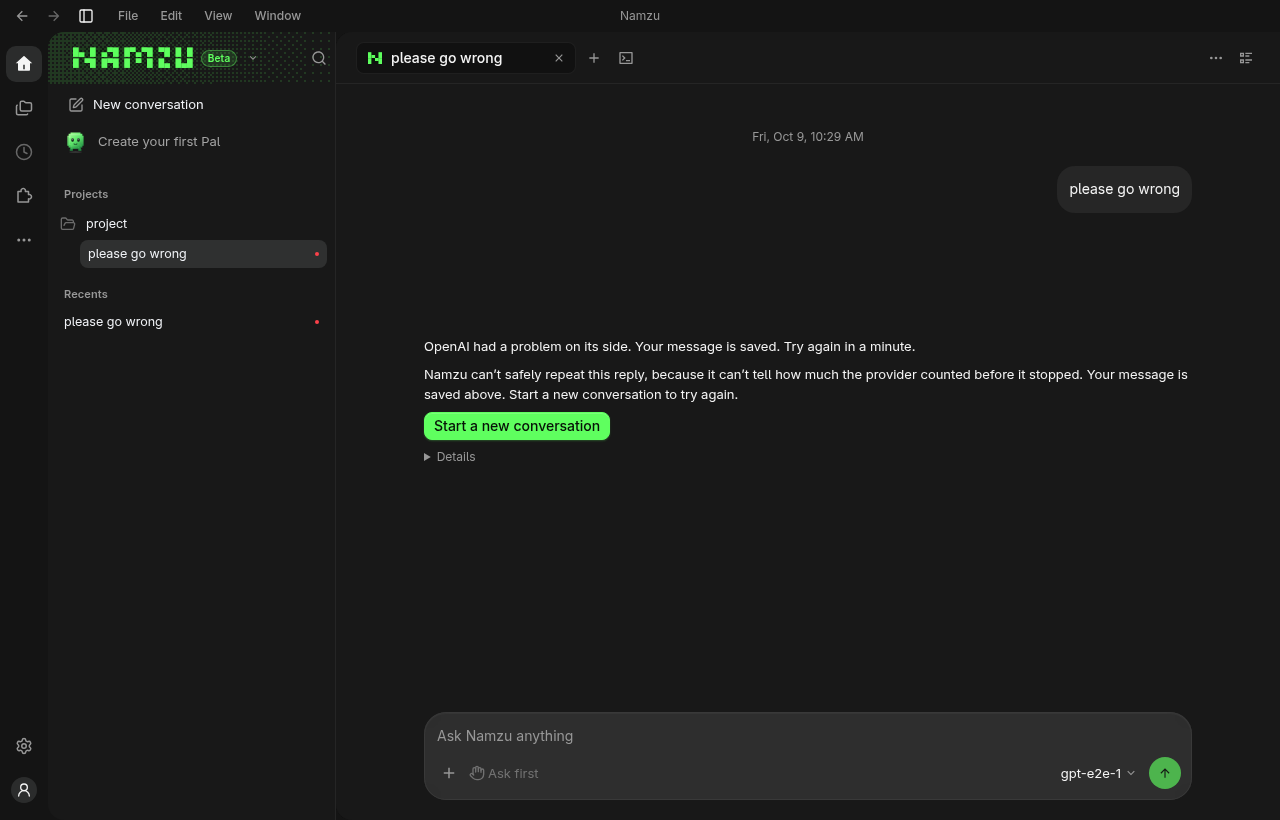
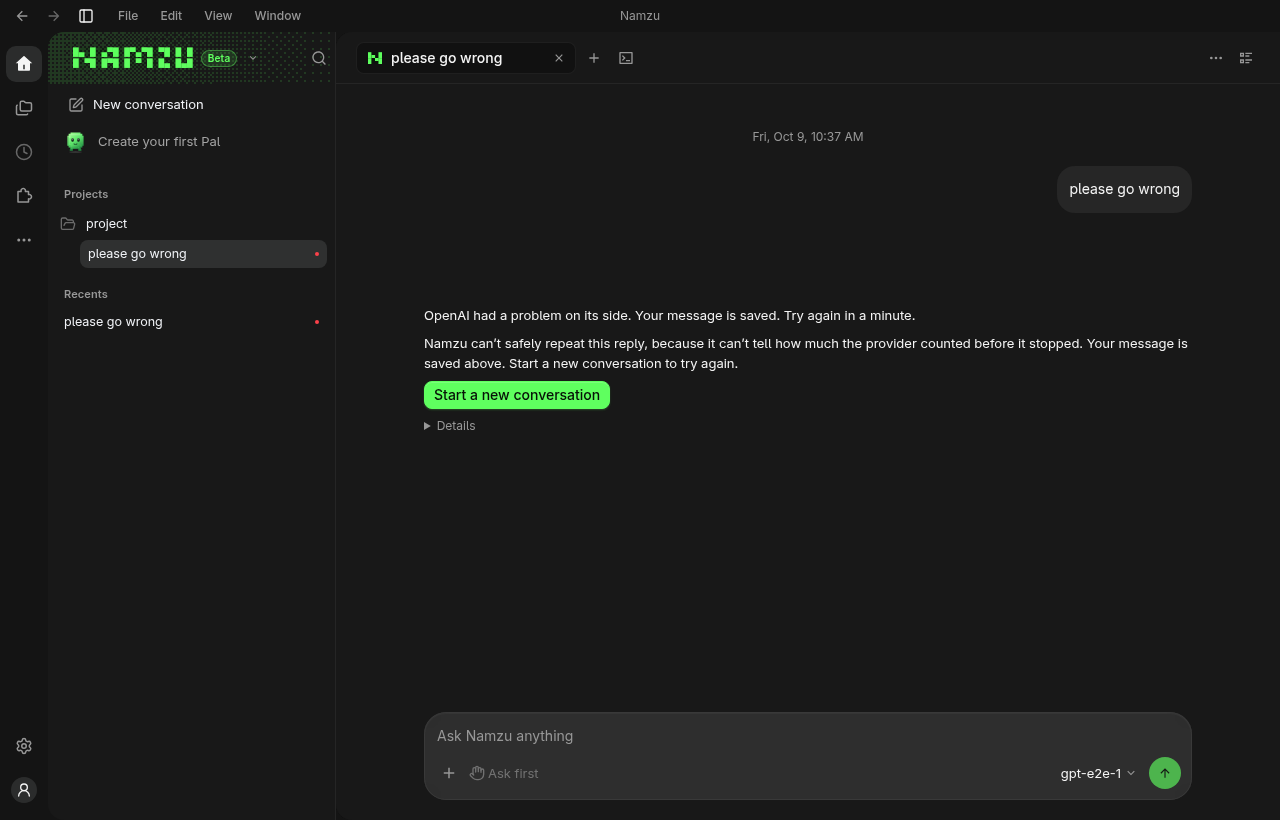
fix(desktop): a failed reply no longer says to try again when it cannot be repeated
The first sentence said 'Try again in a minute' while the next said the reply could not be repeated and to start a new conversation. The sentences now state what happened; the Try again button appears only when it works.

Changed region(s): [[0.3125, 0.3659, 0.9375, 0.5793], [0.8125, 0.4573, 0.8438, 0.4878], [0.625, 0.1524, 0.6562, 0.1829]]

diff --git a/packages/desktop/src/renderer/friendly-errors.ts b/packages/desktop/src/renderer/friendly-errors.ts
@@ -84,7 +84,7 @@ export function describeFailure(raw: string, providerLabel?: string): FriendlyFa
 			return withDetails(
 				{
 					kind: 'connection',
-					text: `Namzu couldn’t reach ${name}. Check your internet connection, then try again.`,
+					text: `Namzu couldn’t reach ${name}. Check your internet connection.`,
 					actions: ['try-again'],
 				},
 				message,
@@ -102,7 +102,7 @@ export function describeFailure(raw: string, providerLabel?: string): FriendlyFa
 			return withDetails(
 				{
 					kind: 'rate-limit',
-					text: `${name} asked Namzu to slow down. Wait a minute, then try again.`,
+					text: `${name} asked Namzu to slow down. Give it a minute.`,
 					actions: ['try-again'],
 				},
 				message,
@@ -111,7 +111,7 @@ export function describeFailure(raw: string, providerLabel?: string): FriendlyFa
 			return withDetails(
 				{
 					kind: 'server',
-					text: `${name} had a problem on its side. Your message is saved. Try again in a minute.`,
+					text: `${name} had a problem on its side. Your message is saved.`,
 					actions: ['try-again'],
 				},
 				message,

diff --git a/packages/desktop/src/renderer/friendly-errors.test.ts b/packages/desktop/src/renderer/friendly-errors.test.ts
@@ -13,7 +13,7 @@ describe('describeFailure', () => {
 		[
 			'anthropic — could not reach the provider: Connection error.',
 			'connection',
-			'Namzu couldn’t reach Anthropic. Check your internet connection, then try again.',
+			'Namzu couldn’t reach Anthropic. Check your internet connection.',
 			['try-again'],
 		],
 		[
@@ -25,13 +25,13 @@ describe('describeFailure', () => {
 		[
 			'anthropic (HTTP 429) — rate limited by the provider',
 			'rate-limit',
-			'Anthropic asked Namzu to slow down. Wait a minute, then try again.',
+			'Anthropic asked Namzu to slow down. Give it a minute.',
 			['try-again'],
 		],
 		[
 			'openai (HTTP 502) — the provider failed to complete the request: 502 <html><body>502 Bad Gateway</body></html>',
 			'server',
-			'OpenAI had a problem on its side. Your message is saved. Try again in a minute.',
+			'OpenAI had a problem on its side. Your message is saved.',
 			['try-again'],
 		],
 		[

diff --git a/docs/cli/desktop.md b/docs/cli/desktop.md
@@ -618,10 +618,10 @@ removed, key-shaped text hidden, at most 500 characters): `src/renderer/friendly
 
 | What happened | What the person reads | Action |
 |---|---|---|
-| Cannot reach the provider | Namzu couldn't reach OpenAI. Check your internet connection, then try again. | Try again |
+| Cannot reach the provider | Namzu couldn't reach OpenAI. Check your internet connection. | Try again |
 | 401 / 403 | OpenAI didn't accept your key. Check it in Settings, then send again. | Open model settings |
 | 429 | OpenAI asked Namzu to slow down… (and, while waiting, the countdown below) | Try again |
-| 5xx | OpenAI had a problem on its side. Your message is saved. Try again in a minute. | Try again |
+| 5xx | OpenAI had a problem on its side. Your message is saved. | Try again |
 | Context window | This conversation is too long for the model… | Start a new conversation |
 | No key | There is no API key for Anthropic. Add one in Settings, then send again. | Open model settings |
 
